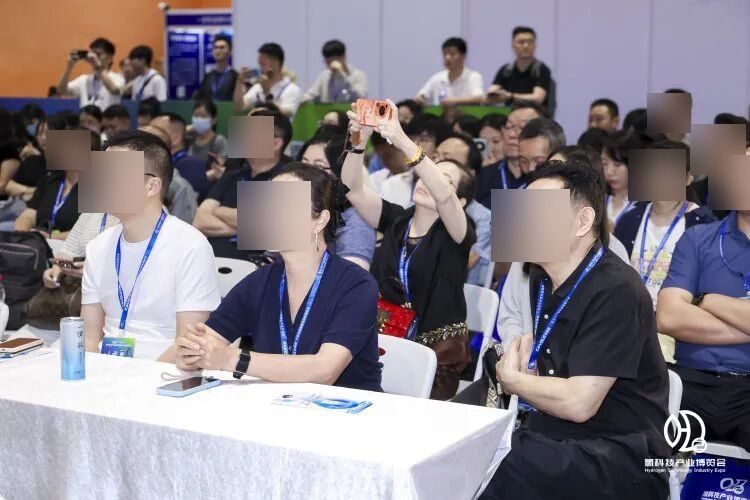
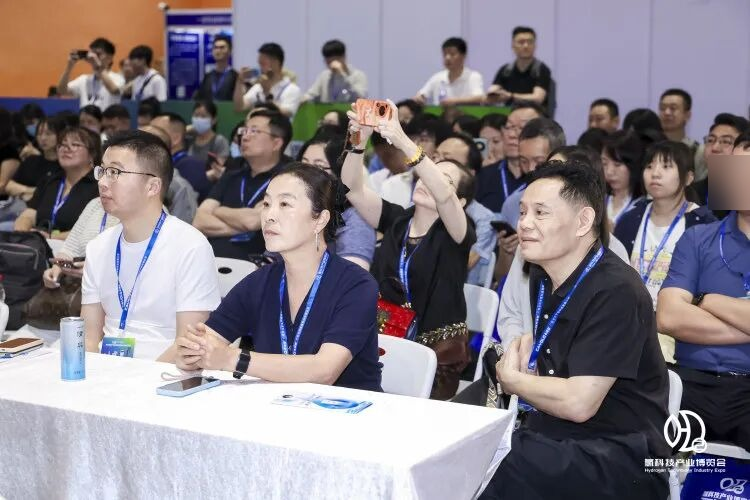
revert: 恢复现场照人脸（公开场合，不涉密与肖像权问题，Martin 2026-10-22 亲令）；保留第三方电话与部分品牌标识脱敏，同步清理图注与免责表述

diff --git a/report.html b/report.html
@@ -1081,7 +1081,7 @@ numbers.</p>
 
 <div class="pe-grid two">
 <div class="photo-evidence"><img src="assets/expo_hydrogen_cups_white.jpg" alt="白色台面上并列三支氢水杯（黑／蓝／黑杯身），属消费类终端形态。"/>
-<div class="pe-cap">白色台面上并列三支氢水杯（黑／蓝／黑杯身），属消费类终端形态。（讲者面部已作模糊处理）（现场人员面部已作模糊处理）<span class="pe-src">2026HST 第十届广州国际氢科技产业博览会现场（2026-05，本报告研究组实拍；B 级现场事实）</span></span></span>（图内印字作「上海惠美医疗」，与注册主体「上海潓美医疗科技有限公司」存在用字差异，以 NMPA 注册库登记为准）</span></div>
+<div class="pe-cap">白色台面上并列三支氢水杯（黑／蓝／黑杯身），属消费类终端形态。<span class="pe-src">2026HST 第十届广州国际氢科技产业博览会现场（2026-05，本报告研究组实拍；B 级现场事实）</span>（图内印字作「上海惠美医疗」，与注册主体「上海潓美医疗科技有限公司」存在用字差异，以 NMPA 注册库登记为准）</span></div>
 </div>
 
 <div class="photo-evidence"><img src="assets/expo_guangzhou_main_gate.jpg" alt="展会官方宣传海报：「2026HST 第十届」、2026.5.13-15、广州保利世贸博览馆"/>
@@ -1336,8 +1336,8 @@ numbers.</p>
 <p>三大给药途径在严肃医学杂志上的多点开花，从源头上粉碎了“氢气无用论”或“单一玄学论”，为全行业下游产品矩阵提供了清晰可查的科学坐标系。</p>
 <hr />
 <div class="pe-grid two">
-<div class="photo-evidence"><img src="assets/expo_forum_overview.jpg" alt="观众席近景：前排长桌与满座听众，画面未见舞台与投影（画面人物面部已作模糊处理）"/>
-<div class="pe-cap">观众席近景：前排长桌与满座听众，画面未见舞台与投影（画面人物面部已作模糊处理）<span class="pe-src">2026HST 第十届广州国际氢科技产业博览会现场（2026-05，本报告研究组实拍；B 级现场事实）</span></div>
+<div class="photo-evidence"><img src="assets/expo_forum_overview.jpg" alt="观众席近景：前排长桌与满座听众，画面未见舞台与投影"/>
+<div class="pe-cap">观众席近景：前排长桌与满座听众，画面未见舞台与投影<span class="pe-src">2026HST 第十届广州国际氢科技产业博览会现场（2026-05，本报告研究组实拍；B 级现场事实）</span></div>
 </div>
 
 
@@ -1847,14 +1847,22 @@ numbers.</p>
 <h3>五、谁在做：四类主体，一条共同的合规线</h3>
 
 <p><strong>第一类是药企跨界。</strong>山东世博金都药业把「六味」的品牌资产从药品延伸到水，
-推出「六味·富氢水」，对外表述为「制药级富氢饮用水」；其宣称依托小分子高氢气泡水发明专利
-（ZL 2019 1 0309155.6），溶氢浓度称达到 0.8–1.6 ppm 的饱和区间（<b>企业宣称，非第三方实测</b>）。
+推出「六味·富氢水」，对外表述为「制药级富氢饮用水」；其对外宣称依托「小分子高氢气泡水」发明专利（企业给出的专利号为 ZL 2019 1 0309155.6，
+<b>该号码格式与标准专利申请号写法不符，本报告未能核实，按企业宣称记录</b>），
+溶氢浓度称达到 0.8–1.6 ppm（<b>企业宣称，非第三方实测</b>）。
+需要说明的是，这款产品是<b>2026 年 4 月随全国招商发布会一并推出的新推产品</b>，
+不是已经过多年市场检验的成熟单品——这一点对判断该企业的真实量产与渠道能力很重要。
 值得注意的是，它讲的是「制药级」的<strong>生产标准</strong>，而不是药品身份——
 落到许可上仍是包装饮用水。这一点恰好说明：<strong>「制药级」是营销语言，「包装饮用水」才是法律身份。</strong></p>
 
-<p><strong>第二类是专业饮品公司。</strong>氢国氢城（沈阳）饮品有限公司成立于沈阳经济技术开发区，
-法定代表人孙雪松，2022 年完成「含氢包装饮用水」企业标准备案，此后持续参展大健康与高端水类展会，
-对外主打「锁氢」技术（<b>企业口径</b>）。这类主体的特点是<strong>以渠道与品牌运营为核心能力</strong>，
+<p><strong>第二类是专业饮品公司。</strong>氢国氢城（沈阳）饮品有限公司注册于沈阳经济技术开发区，法定代表人孙雪松，
+2022 年完成「含氢包装饮用水」企业标准备案，此后持续参展大健康与高端水类展会，
+品牌名「氢巢」，对外主打「纳米锁氢」与食品级氢气灌装，产品含 345/360 ml 铝罐与 10 L 桶装
+（<b>企业宣称</b>，宣称溶氢 2,000–3,000 ppb）。<b>其成立年份存在两种公开口径</b>——
+工商备案为 2021 年，而学会单位会员页记载为 2018 年，本报告并列两种口径、不擅自取舍。
+孙雪松在行业活动上另以「青祝公司董事长」身份出席 2024 年北京 CIHIE 氢健康产品展圆桌论坛，
+媒体对其背景的表述是「由气体行业转行氢医学」——<strong>这条路径很有代表性：
+做水的人往往不是做水出身，而是从工业气体转过来的</strong>。这类主体的特点是<strong>以渠道与品牌运营为核心能力</strong>，
 产能与配方则依托代工与上游供气。</p>
 
 <p><strong>第三类是技术驱动型品牌。</strong>北京活力氢源饮品有限公司成立于 2013 年 1 月，
@@ -1868,10 +1876,15 @@ numbers.</p>
 这种自我设限本身就是一种差异化</b>。</p>
 
 <p><strong>第四类是上游供气。</strong>富氢水企业并不自己制氢，而是采购符合 GB 31633 的食品添加剂氢气。
-这一环由专业气体企业承担——例如哈尔滨黎明气体集团，主业覆盖工业气体、医用气体、特种气体、
-食品气体与氢气，在沈阳设有体系内企业。<strong>「食品气体」在气体行业本就是一个既有品类，
-富氢水只是给它添了一个新客户。</strong>（具体某家水企由哪家气体企业供氢，本报告未取得可公开核实的关系，
-不作指认。）</p>
+这一环由专业气体企业承担。以东北地区为例：<b>沈阳洪生气体有限公司</b>（原黎明气体集团，
+集团始建于 1993 年、公司 2004 年注册，法定代表人王鹏）是区域内氢气的主要供应商之一，
+官网主营包含工业气体、医用气体、特种气体、食品气体与氢气，并对外称建有甲醇裂解制氢装置、
+水电解装置与百余辆氢气运输车（<b>企业官网口径</b>）。
+<strong>但必须说清两件事</strong>：其一，本报告<b>未见该公司取得食品级氢气生产资质的公开证据</b>，
+官网出现「食品气体」一词不等于具备食品添加剂氢气资质；其二，<b>某家具体水企由哪家气体企业供氢，
+本报告未取得可公开核实的关系，不作指认</b>。
+可以确认的只是行业结构：食品级氢气（GB 31633-2014）采购在气体行业并非新事物，
+富氢水企业是这条既有供应链的新增客户。</p>
 
 <h3>六、设备侧供给层：健康家电的代工底盘，与一条出口导向的主线</h3>
 
@@ -2062,7 +2075,7 @@ numbers.</p>
 </ul>
 <p>新材料彻底打破了传统硬件的决策阻力，将产品客单价从“万元级重决策”拉低至“几十元至百元级轻决策”，使氢分子天然嵌入到大众日常的“吃、喝、洗、护、泡”生活流之中。</p>
 <div class="photo-evidence"><img src="assets/mq_carrier_matrix.jpg" alt="“氢＋（Hydrogen Plus）”多载体融合生活方式全景消费矩阵。展示了以微孔矿物陶瓷、道地草本、无纺布纤维及功能食品为载体，衍生出的“吃（Eat）、喝（Drink）、洗（Wash）、护（Care）、泡（Soak）”全场景快消品生态图谱。"/>
-<div class="pe-cap">“氢＋（Hydrogen Plus）”多载体融合生活方式全景消费矩阵。展示了以微孔矿物陶瓷、道地草本、无纺布纤维及功能食品为载体，衍生出的“吃（Eat）、喝（Drink）、洗（Wash）、护（Care）、泡（Soak）”全场景快消品生态图谱。（画面中人物面部已作模糊处理）<span class="pe-src">木齐科技（MUQI Technology）产业资料库</span></span></div>
+<div class="pe-cap">“氢＋（Hydrogen Plus）”多载体融合生活方式全景消费矩阵。展示了以微孔矿物陶瓷、道地草本、无纺布纤维及功能食品为载体，衍生出的“吃（Eat）、喝（Drink）、洗（Wash）、护（Care）、泡（Soak）”全场景快消品生态图谱。<span class="pe-src">木齐科技（MUQI Technology）产业资料库</span></div>
 </div>
 
 <h3 id="催化剂四老龄化少子化社会结构与慢性病年轻化刚需爆发">3.2.4 催化剂四：老龄化少子化社会结构与慢性病年轻化刚需爆发</h3>
@@ -2200,8 +2213,8 @@ numbers.</p>
 <li><p><strong>产品形态与使用习惯</strong>： 运动随行电解富氢水杯、固态微孔便携发泡能量片（加入运动饮料冲调）、运动康复中心微高压富氢氧舱（1.3~1.5 ATA 赛后深度恢复）、富氢深层肌肉冰敷/热敷凝胶贴。</p></li>
 </ul>
 <hr />
-<div class="photo-evidence pe-strip"><img src="assets/expo_hydrogen_coffee.jpg" alt="观众在「AI 智能冰热现磨氢咖啡」机触屏前操作；机身为同行企业卡沃罗品牌（标识已作模糊处理，画面人物面部亦已作模糊处理）"/>
-<div class="pe-cap">观众在「AI 智能冰热现磨氢咖啡」机触屏前操作；机身为同行企业卡沃罗品牌（标识已作模糊处理，画面人物面部亦已作模糊处理）<span class="pe-src">2026HST 第十届广州国际氢科技产业博览会现场（2026-05，本报告研究组实拍；B 级现场事实）</span></div>
+<div class="photo-evidence pe-strip"><img src="assets/expo_hydrogen_coffee.jpg" alt="观众在「AI 智能冰热现磨氢咖啡」机触屏前操作；机身为同行企业卡沃罗品牌（标识已作模糊处理）"/>
+<div class="pe-cap">观众在「AI 智能冰热现磨氢咖啡」机触屏前操作；机身为同行企业卡沃罗品牌（标识已作模糊处理）<span class="pe-src">2026HST 第十届广州国际氢科技产业博览会现场（2026-05，本报告研究组实拍；B 级现场事实）</span></div>
 </div>
 <div class="pe-grid two">
 
@@ -2300,6 +2313,8 @@ numbers.</p>
 <div class="ct-eyebrow">CHAPTER 03 RECAP · 章末小结</div>
 <div class="ct-title">九大人群背后只有一条界线：给药途径决定宣称边界</div>
 <ol class="ct-points"><li><b>会销的根源是单价结构。</b>出厂成本 2,000–5,000 元、终端 1.5–2.6 万元的产品无法在商超与电商自然动销，线下体验馆是少数能消化该单价的渠道形态；话术夸大是这个结构的产物，不是起因。</li><li><b>九大人群各有独立的循证边界。</b>证据最硬的是银屑病水浴与 COPD 吸入；特应性皮炎尚无大规模人体双盲 RCT；糖尿病、帕金森等只能做辅助干预定位——宣称边界必须与证据等级严格绑定。</li><li><b>最常见的越界方式，是给药途径错配。</b>用皮肤水浴的文献去背书「喝氢水治皮肤病」，在专业医生面前会被当场证伪；途径错了，证据再硬也不成立。</li></ol>
+<div class="ct-sub">五类代表人群：证据状态与允许的宣称边界</div>
+<div class="table-wrap"><table class="compact tbl-fixed"><colgroup><col style="width:21.22%"><col style="width:14.87%"><col style="width:32.16%"><col style="width:31.75%"></colgroup><thead><tr><th>人群</th><th>主要给药途径</th><th>证据状态</th><th>允许的宣称边界</th></tr></thead><tbody><tr><td>慢性阻塞性肺病（COPD）</td><td>气体吸入</td><td>A 级，多中心平行对照，器械已注册</td><td>限 COPD 急性加重期，不得外推到其他呼吸疾病</td></tr><tr><td>银屑病等慢性炎症性皮肤病</td><td>水浴（外用）</td><td>A 级，RCT：PASI 75 达标 24.4% vs 2.9%</td><td>限皮肤局部改善，不可外推为全身疗效</td></tr><tr><td>特应性皮炎</td><td>外用</td><td>尚无大规模人体双盲 RCT</td><td>只能做辅助护理表述，不得宣称治疗</td></tr><tr><td>2 型糖尿病与代谢综合征</td><td>口服饮水</td><td>改善替代指标（ox-LDL、尿 8-异前列腺素）</td><td>辅助干预定位，不得宣称降糖疗效</td></tr><tr><td>帕金森病</td><td>口服饮水</td><td>单中心 48 周 UPDRS 变化</td><td>辅助干预定位，不得替代药物治疗</td></tr></tbody></table></div>
 </div>
 <h1 class="chapter" id="ch4"><div class="chap-art" aria-hidden="true"><img src="assets/chapter_art/06_ceramic.jpg" alt=""></div>
 <span class="runhead">第四章 标杆案例深度剖析</span>
@@ -2329,8 +2344,8 @@ numbers.</p>
 
 <hr />
 <h2 id="s4-2">4.2 技术底座：ICR 智控释溶固态氢技术平台</h2>
-<div class="photo-evidence pe-strip"><img src="assets/mq_joint_lab_rd.png" alt="左为四张实验室操作照；右为银白金属牌匾，镌固态储氢新材料实验室（画面人物面部已作模糊处理）"/>
-<div class="pe-cap">左为四张实验室操作照；右为银白金属牌匾，镌固态储氢新材料实验室（画面人物面部已作模糊处理）<span class="pe-src">木齐科技官网 emuqi.com；企业自述材料，B 级</span></div>
+<div class="photo-evidence pe-strip"><img src="assets/mq_joint_lab_rd.png" alt="左为四张实验室操作照；右为银白金属牌匾，镌固态储氢新材料实验室"/>
+<div class="pe-cap">左为四张实验室操作照；右为银白金属牌匾，镌固态储氢新材料实验室<span class="pe-src">木齐科技官网 emuqi.com；企业自述材料，B 级</span></div>
 </div>
 
 <p>木齐科技的核心技术引擎为自主研发的 <strong>ICR（Intelligent Controlled Release）智控释溶固态氢技术</strong>。该技术突破了传统金属单质剧烈反应和不可控析氢的工程瓶颈，通过多相微孔复合陶瓷晶格载体，实现了氢气在常温常压下的安全储存、可控释放与长效溶存。</p>
@@ -2988,7 +3003,7 @@ numbers.</p>
 <li><strong>地方氢能商会与跨界联盟崛起</strong>：如淄博市氢能商会（木齐科技出任副会长单位）、山东省绿色低碳发展中心氢动能团队等地方组织，积极打破能源与大健康的壁垒，全力推动“氢进万家”由单一能源供暖走向千家万户的健康饮水、日常护理与绿色现代农田。</li>
 </ol>
 <div class="photo-evidence"><img src="assets/expo_academic_forum_timeline.jpg" alt="论坛现场一位演讲者，背景屏幕为氢医学发展时间轴"/>
-<div class="pe-cap">论坛现场一位演讲者，背景屏幕为氢医学发展时间轴（演讲者面部已作模糊处理）<span class="pe-src">本报告研究组现场实拍（广州国际氢科技博览会 / 全国氢生物医学大会）</span></span></div>
+<div class="pe-cap">论坛现场一位演讲者，背景屏幕为氢医学发展时间轴<span class="pe-src">本报告研究组现场实拍（广州国际氢科技博览会 / 全国氢生物医学大会）</span></div>
 </div>
 
 <h3 id="这一跨界融合的底层商业逻辑与宏观动因">6.4.2 这一跨界融合的底层商业逻辑与宏观动因</h3>

diff --git a/index.html b/index.html
@@ -217,7 +217,7 @@ footer .fine{margin-top:34px;padding-top:20px;border-top:1px solid rgba(255,255,
     </div>
     <p class="fine">本报告为独立研究产出，服务于产业研究与跨境合作讨论，不构成任何医疗建议、诊断依据或投资建议。
       文中临床数据均引自公开发表的原始文献，具体适应症与使用方式须遵循执业医师判断与监管规定。
-      第三方品牌标识、联系方式与可识别人脸已作脱敏处理。</p>
+      文中现场照片均摄于公开场合；涉及第三方的联系电话与部分品牌标识已作脱敏处理。</p>
   </div>
 </footer>
 

diff --git a/README.md b/README.md
@@ -59,7 +59,7 @@ CHANGELOG.md        版本修订记录
 - **论文数不可与注册数相除**——中间隔着「做了没发」「发了没注册」「注册了没做」三道流失；
 - **两类市场口径不并列不相除**——细分实证口径（富氢水机 42.3 亿元）与宿主渗透推演口径（家电 11,695 亿元分母）不可相加。
 
-图片一律标注来源与授权状态。第三方品牌标识、联系方式与可识别人脸已作脱敏处理；凡涉及企业自述材料的图片，均在来源中注明「企业自述」。
+图片一律标注来源与授权状态。现场照片均摄于公开场合；涉及第三方的联系电话与部分品牌标识已作脱敏处理；凡涉及企业自述材料的图片，均在来源中注明「企业自述」。
 
 ## 关于选样与数据边界
 
